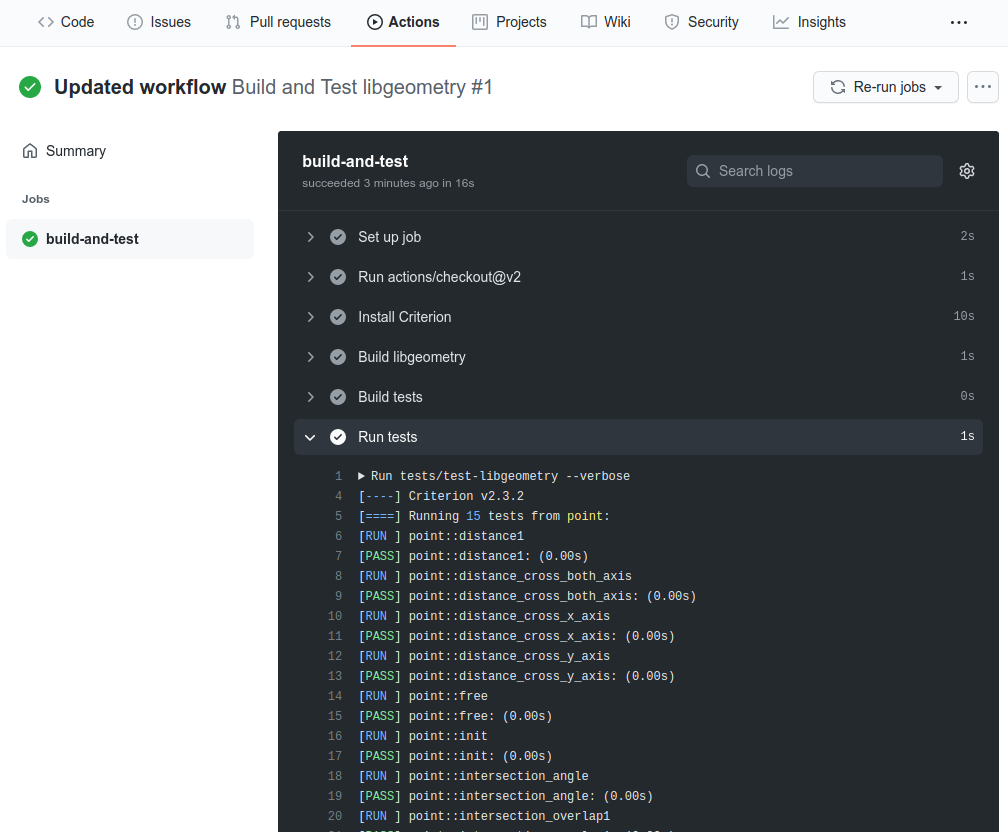
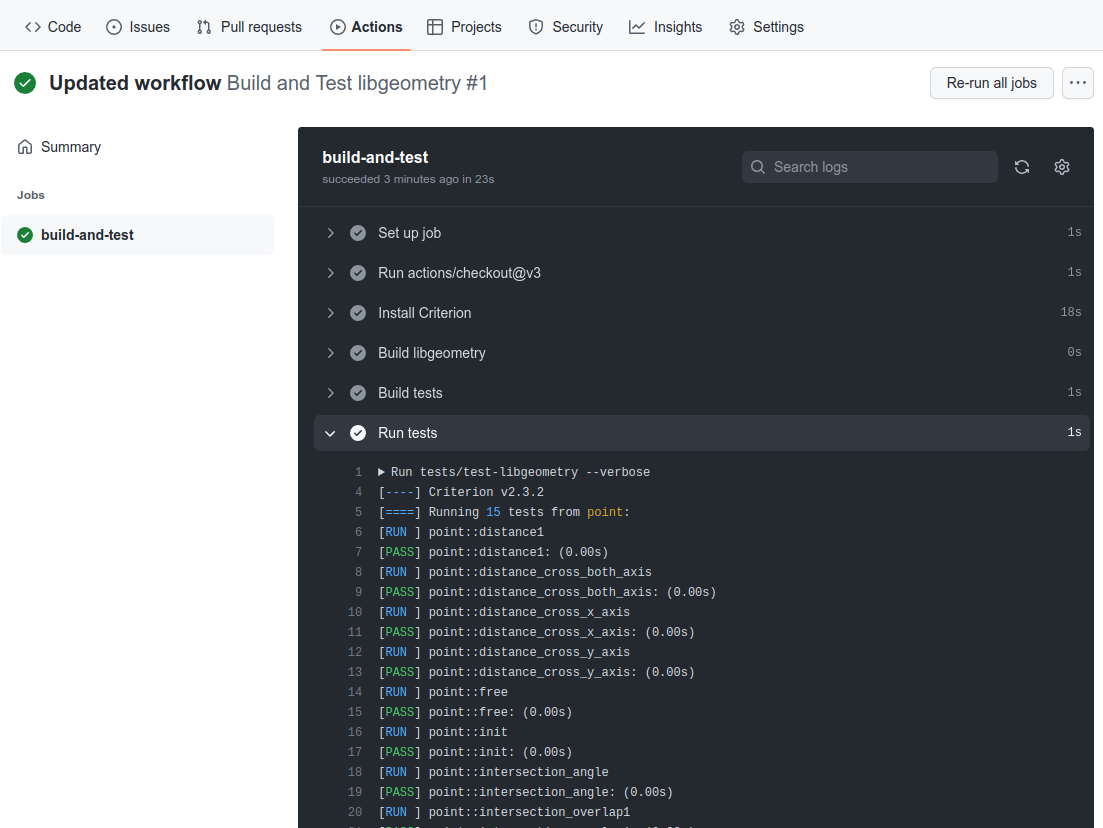
Updated Homework 6 for 2022

diff --git a/website/hw/hw6.rst b/website/hw/hw6.rst
@@ -66,10 +66,10 @@ We’ll start by looking at a simple GitHub Actions workflow file:
     jobs:
       build-and-test:
 
-        runs-on: ubuntu-16.04
+        runs-on: ubuntu-18.04
 
         steps:
-        - uses: actions/checkout@v2
+        - uses: actions/checkout@v3
 
         - name: Install Criterion
           run: |
@@ -118,8 +118,8 @@ After that, we have a ``jobs:`` option where we can specify the jobs
 that make up this workflow. In this workflow, we are only specifying
 a single job called ``build-and-test``.
 
-The first option of the job (``runs-on: ubuntu-16.04``) specifies
-that the job should be run on an Ubuntu 16.04 environment. We can't specify
+The first option of the job (``runs-on: ubuntu-18.04``) specifies
+that the job should be run on an Ubuntu 18.04 environment. We can't specify
 arbitrary environments here, though; a CI system will typically
 have a limited set of environments they support (for GitHub Actions,
 you can see the list of supported environments
@@ -137,7 +137,7 @@ specifies the directory the commands have to be run from.
 The first step is different. GitHub Actions actually allows developers to
 publish actions that other developers
 can re-use in their workflows, and we are reusing an action provided
-by GitHub: the ``actions/checkout@v2`` action. This action simply
+by GitHub: the ``actions/checkout@v3`` action. This action simply
 clones our repository before running the rest of the commands
 in the job.
 
@@ -203,10 +203,10 @@ Take into account that we could’ve also run all the commands inside a single
     jobs:
       build-and-test:
 
-        runs-on: ubuntu-16.04
+        runs-on: ubuntu-18.04
 
         steps:
-        - uses: actions/checkout@v2
+        - uses: actions/checkout@v3
 
         - name: Build and Test
           working-directory: libgeometry/
@@ -332,31 +332,36 @@ Task 2: Multiple jobs
 
 In the previous task we saw that GitHub Actions can build our code and run
 the tests, and alert us to any issues when doing so. However, our job
-was running specifically in an Ubuntu 16.04 environment. What if our
+was running specifically in an Ubuntu 18.04 environment. What if our
 code doesn’t compile in other environments? CI systems can also help us
 with this, as they often provide mechanisms to easily build our code in
-multiple environments. For example, we may want to build our code in
-multiple Ubuntu versions, or using different compilers.
+multiple environments. In fact, the build commands we've specified
+will *not* work on an Ubuntu 20.04 environment! This is something
+we could like to catch early, instead of by having a user report
+that they were unable to run our code in their environment.
 
-In GitHub Actions, we can do this by specifying a *matrix* of job
-configurations. For example, add this option to your ``build-and-test``
+In GitHub Actions, we can build our code in multiple environments by specifying
+a *matrix* of job configurations. For example, add this option to your ``build-and-test``
 job:
 
 ::
 
     strategy:
       matrix:
-        os: [ubuntu-16.04, ubuntu-18.04]
+        os: [ubuntu-18.04, ubuntu-20.04]
         compiler: [gcc, clang]
 
+Notice how, besides specifying two operating systems (Ubuntu 18.04 and 20.04),
+we are also going to use two different compilers: GCC and Clang.
+
 Commit and push this change. You'll notice that your workflow now
-produces four jobs, corresponding to every combination of the ``os``
+produces *four* jobs, corresponding to every combination of the ``os``
 and ``compiler`` values shown above.
 
 However, the ``matrix`` option above doesn't actually affect the
 running environment or compiler used in the jobs (for example,
-if you click through the details of the Ubuntu 18.04 clang job,
-you'll see that Ubuntu 16.04 still appears in the "Set up job"
+if you click through the details of the Ubuntu 20.04 clang job,
+you'll see that Ubuntu 18.04 still appears in the "Set up job"
 step, under "Operating System", and that the build steps still use GCC).
 
 The ``matrix`` option simply defines variables we can use in our
@@ -364,20 +369,32 @@ workflow file, and which get substituted for each individual job.
 In this case, the variables are ``${{ matrix.os }}`` and ``${{ matrix.compiler }}``.
 So, if we replace this::
 
-    runs-on: ubuntu-16.04
+    runs-on: ubuntu-18.04
 
 With this::
 
     runs-on: ${{ matrix.os }}
 
 Each run will use the appropriate operating system. Make the above
-change and commit/push the change to give it a try.
+change and commit/push the change to give it a try. You'll now see
+how the Ubuntu 20.04 jobs fail.
 
 -  Take the URL of the run you just produced, and paste it
    into Gradescope (under “Task 2.1: Multiple operating systems”).
 
-However, our builds are still using GCC in every job. Unfortunately,
-the workflow file doesn't have a convenient "tell Make to use this compiler"
+We will be fixing the issue with Ubuntu 20.04 in the next task so,
+for now, change the matrix to this:
+
+::
+
+    strategy:
+      matrix:
+        os: [ubuntu-18.04]
+        compiler: [gcc, clang]
+
+For now, we will focus on ensuring that each job uses the appropriate
+compiler. Unfortunately, unlike setting the operating system with
+the ``runs-on`` option, the workflow file doesn't have a convenient "tell Make to use this compiler"
 option, so this requires a bit more work.
 
 First of all, we will need to modify our Makefile. Notice how the
@@ -419,6 +436,11 @@ documentation `here <https://docs.github.com/en/actions/reference/workflow-synta
 and that you're welcome to look for the answer through external
 sources, as long as you cite your sources.
 
+Please note that you *must* find a way of specifying the environment
+variable using a job option specifically intended for that purpose.
+You are not allowed to solve
+this task by modifying the contents of the ``run`` options.
+
 -  Modify the Makefile as described above, and update
    your workflow file so that the libgeometry code and the tests
    are built with the right compiler. Take the URL of the run
@@ -428,22 +450,22 @@ sources, as long as you cite your sources.
 Task 3: Supporting Different Environments
 -----------------------------------------
 
-You may have noticed that Ubuntu 20.04 (the latest "Long Term Support"
-version of Ubuntu) was conspicuously missing from the list of operating
-systems we were building libgeometry in. This is because the Criterion
+We are now going to get our build working on Ubuntu 20.04 so,
+before starting this task, make sure you update the matrix to this:
+
+::
+
+    strategy:
+      matrix:
+        os: [ubuntu-18.04, ubuntu-20.04]
+        compiler: [gcc, clang]
+
+Do not commit/push this change just yet.
+
+As we saw earlier, this caused the Ubuntu 20.04 builds to fail. This is because the Criterion
 library does not provide installable packages for Ubuntu 20.04, which
 means the "Install Criterion" step we defined (which uses Ubuntu's ``apt`` command to fetch
 and install the Criterion package) will fail on Ubuntu 20.04.
-
-You can give it a try by changing this::
-
-        os: [ubuntu-16.04, ubuntu-18.04]
-
-To this::
-
-        os: [ubuntu-16.04, ubuntu-20.04]
-
-You'll notice that the "Install Criterion" step fails for the Ubuntu 20.04 runs.
 
 Fortunately, we can just build Criterion from its source code.
 However, we'd like to do this *only* when building our code
@@ -454,24 +476,28 @@ the installable packages whenever possible).
 So, we're going to end up with two possible installation steps
 for Criterion::
 
-    - name: Install Criterion (Ubuntu < 20.04)
+    - name: Install Criterion (Ubuntu 18.04)
       run: |
        sudo add-apt-repository -y ppa:snaipewastaken/ppa
        sudo apt update -q
        sudo apt install -qy criterion criterion-dev
 
-    - name: Install Criterion (Ubuntu >= 20.04)
+    - name: Install Criterion (Ubuntu 20.04)
       run: |
         git clone --recursive https://github.com/Snaipe/Criterion
         cd Criterion
         git checkout master
-        cmake -DCMAKE_INSTALL_PREFIX:PATH=/usr -B build/
-        make -C build/
-        sudo make -C build/ install
+        sudo apt install -qy ninja-build
+        sudo pip3 install meson
+        meson build
+        ninja -C build
+        sudo ninja -C build install
+        sudo ldconfig
 
 Your task is to figure out how to ensure that the first step is only
-run if the operating system is ``ubuntu-16.04``, and the second
+run if the operating system is ``ubuntu-18.04``, and the second
 step is only run if the operating system is ``ubuntu-20.04``.
+
 Note: you must do this without modifying the ``run`` option.
 Like before, remember that you can find the workflow format
 documentation `here <https://docs.github.com/en/actions/reference/workflow-syntax-for-github-actions>`__
@@ -484,35 +510,29 @@ sources, as long as you cite your sources.
 Task 4: Tweaking the Matrix
 ---------------------------
 
-One of the advantages of specifying a matrix of configurations is that
-it can allow us to very easily verify that our code works across
-multiple combinations of different options. For example, let's
-say we defined the following matrix::
+As we've seen, specifying a matrix of configurations allows us
+to very easily verify that our code works across
+multiple combinations of different options. So far, our
+matrix looks like this::
 
     strategy:
       matrix:
-        os: [ubuntu-16.04, ubuntu-18.04, ubuntu-20.04]
+        os: [ubuntu-18.04, ubuntu-20.04]
         compiler: [gcc, clang]
 
-This would run six different configurations. However, let's say
-we're only interested in testing our code with both GCC and clang
+However, let's say we're only interested in testing our code with both GCC and clang
 in the latest version of Ubuntu (for prior versions, we'll just
 test it with GCC). So, for avoidance of doubt, you would end
-up with four jobs:
+up with three jobs:
 
-- Ubuntu 16.04 with GCC
 - Ubuntu 18.04 with GCC
 - Ubuntu 20.04 with GCC
 - Ubuntu 20.04 with clang
 
 Figure out a way to run only the above jobs. For full credit,
 you must do so in a way that does not involve writing out the configuration
-for four separate jobs (either by writing four separate jobs, or by
-creating a matrix that specifies four distinct configurations). Instead, you
+for three separate jobs. Instead, you
 should look for a way to selectively add/remove jobs from an existing matrix.
-Also, take into account that, depending on
-how you solved Task 3, you may have to further tweak your
-Task 3 solution to get it to work with all these configurations.
 
 -  Take the URL of the run you just produced, and paste it
    into Gradescope (under “Task 4: Tweaking the Matrix”).

diff --git a/website/hw/hw6_rubric.rst b/website/hw/hw6_rubric.rst
@@ -8,7 +8,34 @@ When grading your work, the graders will be checking for the following issues in
 note that some of the issues are labelled as "[Major]" (these will have a greater effect on your score
 for the homework)
 
+Task 1
+------
 
+- Did not provide a URL for Task 1.1
+- Did not provide a URL for Task 1.2, or provided a workflow that runs successfully, or fails for a reason other than the code not compiling.
+- Did not provide a URL for Task 1.3, or provided a workflow that runs successfully, or fails for a reason other than the tests failing.
+
+Task 2
+------
+
+- Did not provide a URL for Task 2.1
+- Updated the matrix correctly in Task 2.1, but did not update the ``runs-on`` option (so the jobs still all run with Ubuntu 18.04)
+- [Major] Did not provide a URL for Task 2.2, or provided a workflow that doesn't actually include a gcc job and clang job.
+- In Task 2.2, the clang job doesn't actually use clang.
+- In task 2.2, the gcc job doesn't actually use gcc.
+
+Task 3
+------
+- [Major] Did not provide a URL for Task 3, or provided a workflow that doesn't include the specified matrix.
+- [Major] Solved this task by updating the ``run`` option
+- Added the two separate installation steps, but they are not
+  being applied to the appropriate job(s).
+
+Task 4
+------
+- [Major] Did not provide a URL for Task 4, or provided a workflow that doesn't include the expected three jobs.
+- Specified three individual jobs instead of figuring out how to add/remove individual
+  jobs from a matrix.
 
 ESNU Score
 ----------
